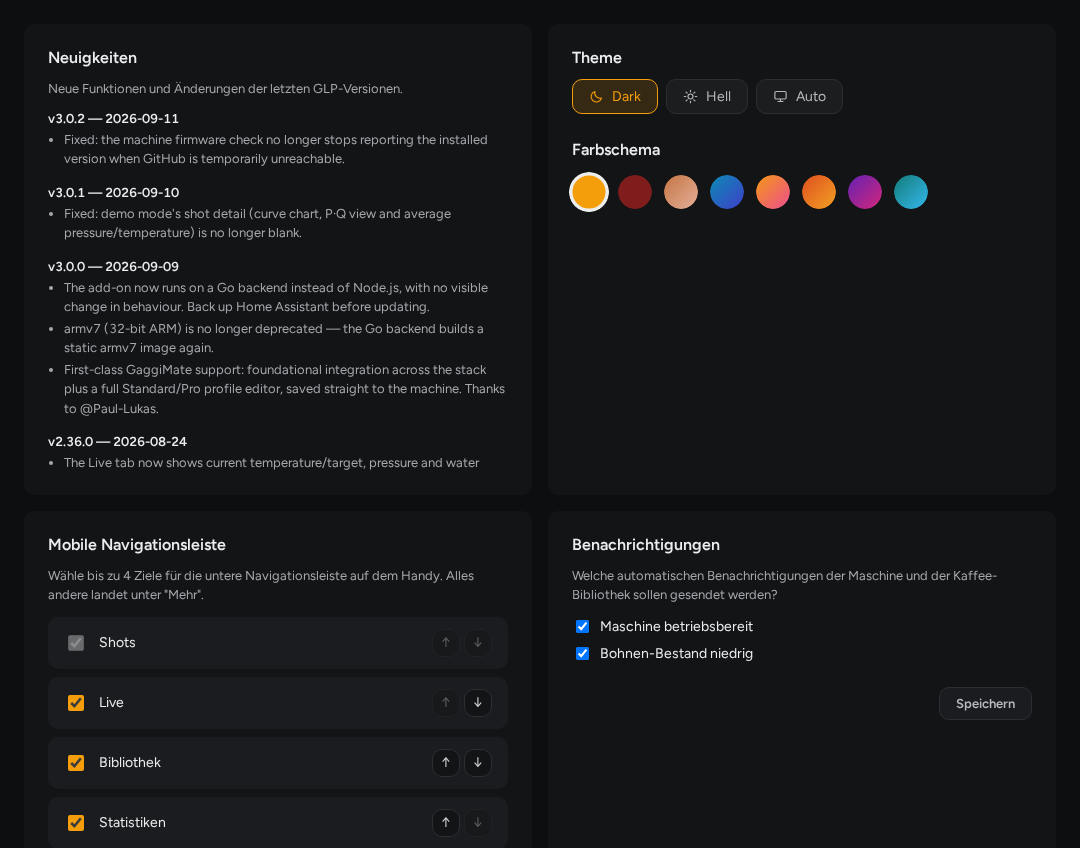
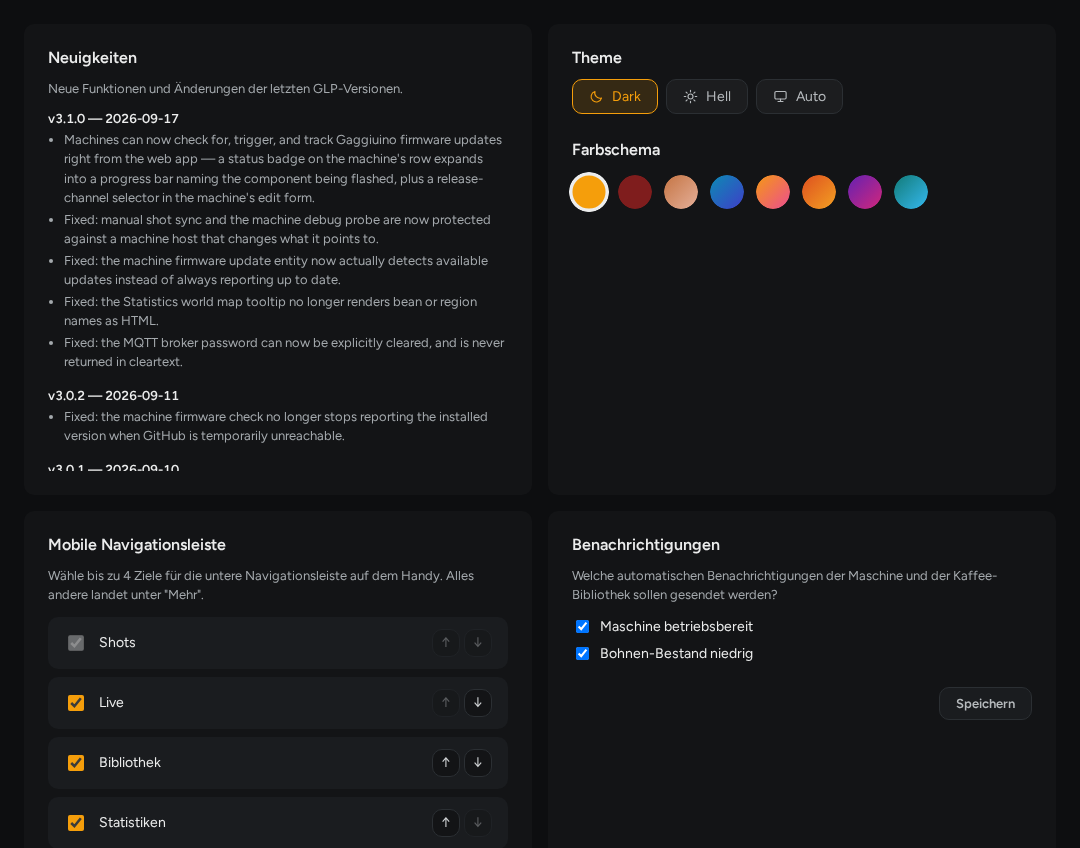
Release v3.1.0: bump version, retitle CHANGELOG, regenerate docs
Version bump (config.yaml, package.json, go version.go/bundle.go/geo.go
user-agent) from 3.0.2 to 3.1.0 per repo Versioning rules: the firmware
update UI (#1044, #1046) is a net-new user-facing capability, so this is
a minor bump. Retitle CHANGELOG.md's Unreleased section to [3.1.0], add
a new empty Unreleased above it. Add a 3.1.0 entry to the in-app What's
New list. Regenerate README screenshots and dev-stats per the release
checklist (maintenance.png/orders.png re-rendered pixel-identical, so
left uncommitted-equivalent — no visual change in those views).

Changed region(s): [[0.0306, 0.1226, 0.4583, 0.5519]]

diff --git a/gaggiuino-local-profiler/public-src/shared/whats-new.js b/gaggiuino-local-profiler/public-src/shared/whats-new.js
@@ -15,6 +15,13 @@
 // caps it defensively so an out-of-order manual edit can't silently show
 // entries in the wrong order or let the list grow unbounded.
 const WHATS_NEW_ENTRIES = [
+    { version: '3.1.0', date: '2026-09-17', highlights: [
+        'Machines can now check for, trigger, and track Gaggiuino firmware updates right from the web app — a status badge on the machine\'s row expands into a progress bar naming the component being flashed, plus a release-channel selector in the machine\'s edit form.',
+        'Fixed: manual shot sync and the machine debug probe are now protected against a machine host that changes what it points to.',
+        'Fixed: the machine firmware update entity now actually detects available updates instead of always reporting up to date.',
+        'Fixed: the Statistics world map tooltip no longer renders bean or region names as HTML.',
+        'Fixed: the MQTT broker password can now be explicitly cleared, and is never returned in cleartext.',
+    ] },
     { version: '3.0.2', date: '2026-09-11', highlights: [
         'Fixed: the machine firmware check no longer stops reporting the installed version when GitHub is temporarily unreachable.',
     ] },

diff --git a/gaggiuino-local-profiler/go/internal/library/geo.go b/gaggiuino-local-profiler/go/internal/library/geo.go
@@ -39,7 +39,7 @@ const (
 	// Cosmetic — Nominatim only needs a stable identifying User-Agent, not
 	// an exact version. Bumped alongside config.yaml at release time (same
 	// convention as internal/system/version.go's glpVersion).
-	geoUserAgent = "GLP/3.0.2 (https://github.com/mxkissnr/gaggiuino-local-profiler)"
+	geoUserAgent = "GLP/3.1.0 (https://github.com/mxkissnr/gaggiuino-local-profiler)"
 )
 
 // Location mirrors lib/geo.js's { lat, lon, label } result shape — the

diff --git a/gaggiuino-local-profiler/go/internal/backup/bundle.go b/gaggiuino-local-profiler/go/internal/backup/bundle.go
@@ -17,7 +17,7 @@ import (
 // `version:` is canonical; this const must match it and is bumped alongside
 // it at release time (CLAUDE.md's Versioning section). Enforced by
 // test/version-sync.test.js and scripts/release-check.mjs.
-const glpVersion = "3.0.2"
+const glpVersion = "3.1.0"
 
 // gatherSmallSections collects every bundle section that is small
 // regardless of shot/image count: coffee_library, blocklist, trash (via

diff --git a/gaggiuino-local-profiler/go/internal/system/version.go b/gaggiuino-local-profiler/go/internal/system/version.go
@@ -28,7 +28,7 @@ const versionCacheTTL = time.Hour
 // Duplicated rather than imported — no shared "constants" package exists in
 // this Go port; every domain package that needs a version-shaped value
 // defines its own, see internal/db's schema version handling.
-const glpVersion = "3.0.2"
+const glpVersion = "3.1.0"
 
 const releaseURL = "https://github.com/mxkissnr/gaggiuino-local-profiler/releases/latest"
 

diff --git a/DEVELOPMENT.md b/DEVELOPMENT.md
@@ -1,36 +1,36 @@
 # Development Stats
 
-Generated 2026-09-11 by `scripts/dev-stats.mjs`. Re-run it any time to refresh these numbers — they are computed live from git history, not hand-maintained.
+Generated 2026-09-17 by `scripts/dev-stats.mjs`. Re-run it any time to refresh these numbers — they are computed live from git history, not hand-maintained.
 
 ## Timeline
 
-The GLP ecosystem (this app + 3 companion repos) has been in development since **2026-05-20** — **114 days** as of the last commit (2026-09-10).
+The GLP ecosystem (this app + 3 companion repos) has been in development since **2026-05-20** — **121 days** as of the last commit (2026-09-17).
 
 | Repo | First commit | Last commit | Commits | Claude co-authored |
 |---|---|---|---|---|
-| gaggiuino-local-profiler | 2026-05-20 | 2026-09-10 | 1198 | 826 (69%) |
-| glp-integration | 2026-05-22 | 2026-09-10 | 177 | 80 (45%) |
-| glp-lovelace-card | 2026-05-24 | 2026-09-07 | 161 | 89 (55%) |
-| glp-order-card | 2026-05-25 | 2026-09-07 | 127 | 61 (48%) |
-| **Combined** | **2026-05-20** | **2026-09-10** | **1663** | **1056 (63%)** |
+| gaggiuino-local-profiler | 2026-05-20 | 2026-09-17 | 1244 | 843 (68%) |
+| glp-integration | 2026-05-22 | 2026-09-14 | 175 | 77 (44%) |
+| glp-lovelace-card | 2026-05-24 | 2026-09-17 | 159 | 85 (53%) |
+| glp-order-card | 2026-05-25 | 2026-09-17 | 128 | 61 (48%) |
+| **Combined** | **2026-05-20** | **2026-09-17** | **1706** | **1066 (62%)** |
 
 ![Commits per repo](docs/dev-stats/commits-per-repo.svg)
 
-Combined line changes (insertions + deletions across all commits): **481.991**, of which **382.333** landed in Claude-co-authored commits.
+Combined line changes (insertions + deletions across all commits): **486.815**, of which **385.260** landed in Claude-co-authored commits.
 
 Commits without a Claude co-author line are presumed human-only (manual fixes, merges, config tweaks) — not independently verified.
 
 ## Hours of development (lower-bound estimate)
 
-Clustering each repo's commit timestamps into working sessions — commits within 2h of each other join the same session, and each session gets a 30-minute lead-in credited ahead of its first commit — gives a combined **507.3 hours** across all four repos.
+Clustering each repo's commit timestamps into working sessions — commits within 2h of each other join the same session, and each session gets a 30-minute lead-in credited ahead of its first commit — gives a combined **523.5 hours** across all four repos.
 
 | Repo | Hours (session-clustered) |
 |---|---|
-| gaggiuino-local-profiler | 321.5 |
-| glp-integration | 69.2 |
-| glp-lovelace-card | 62.3 |
+| gaggiuino-local-profiler | 335.7 |
+| glp-integration | 70.0 |
+| glp-lovelace-card | 63.5 |
 | glp-order-card | 54.3 |
-| **Combined** | **507.3** |
+| **Combined** | **523.5** |
 
 This is a **lower-bound estimate derived from git commit timestamps only**, not measured time — it undercounts real work because a long AI-agentic session (orchestration, agent dispatch, review between infrequent commits) can run for hours between commits.
 
@@ -38,10 +38,10 @@ This is a **lower-bound estimate derived from git commit timestamps only**, not 
 
 | Model | Commits |
 |---|---|
-| Claude Sonnet 5 | 565 |
+| Claude Sonnet 5 | 577 |
 | Claude Sonnet 4.6 | 348 |
 | Claude Opus 4.8 | 47 |
-| Claude Opus 5 | 43 |
+| Claude Opus 5 | 41 |
 | Claude Fable 5 | 40 |
 | Claude | 11 |
 | Claude Haiku 4.5 | 2 |

diff --git a/gaggiuino-local-profiler/CHANGELOG.md b/gaggiuino-local-profiler/CHANGELOG.md
@@ -1,4 +1,6 @@
 ## [Unreleased]
+
+## [3.1.0] – 2026-09-17
 ### Added
 - **Gaggiuino machines can now check for, trigger, and track firmware updates directly from the web app**, with a status badge right on the machine's own row in the machines list (installed/latest version, no click needed to see whether an update is available) that expands into a trigger button and progress bar, plus a release-channel (stable/test/debug) selector in the machine's edit form. Both were already fully working on the backend but had no UI before. Closes #1044, #1046
 
